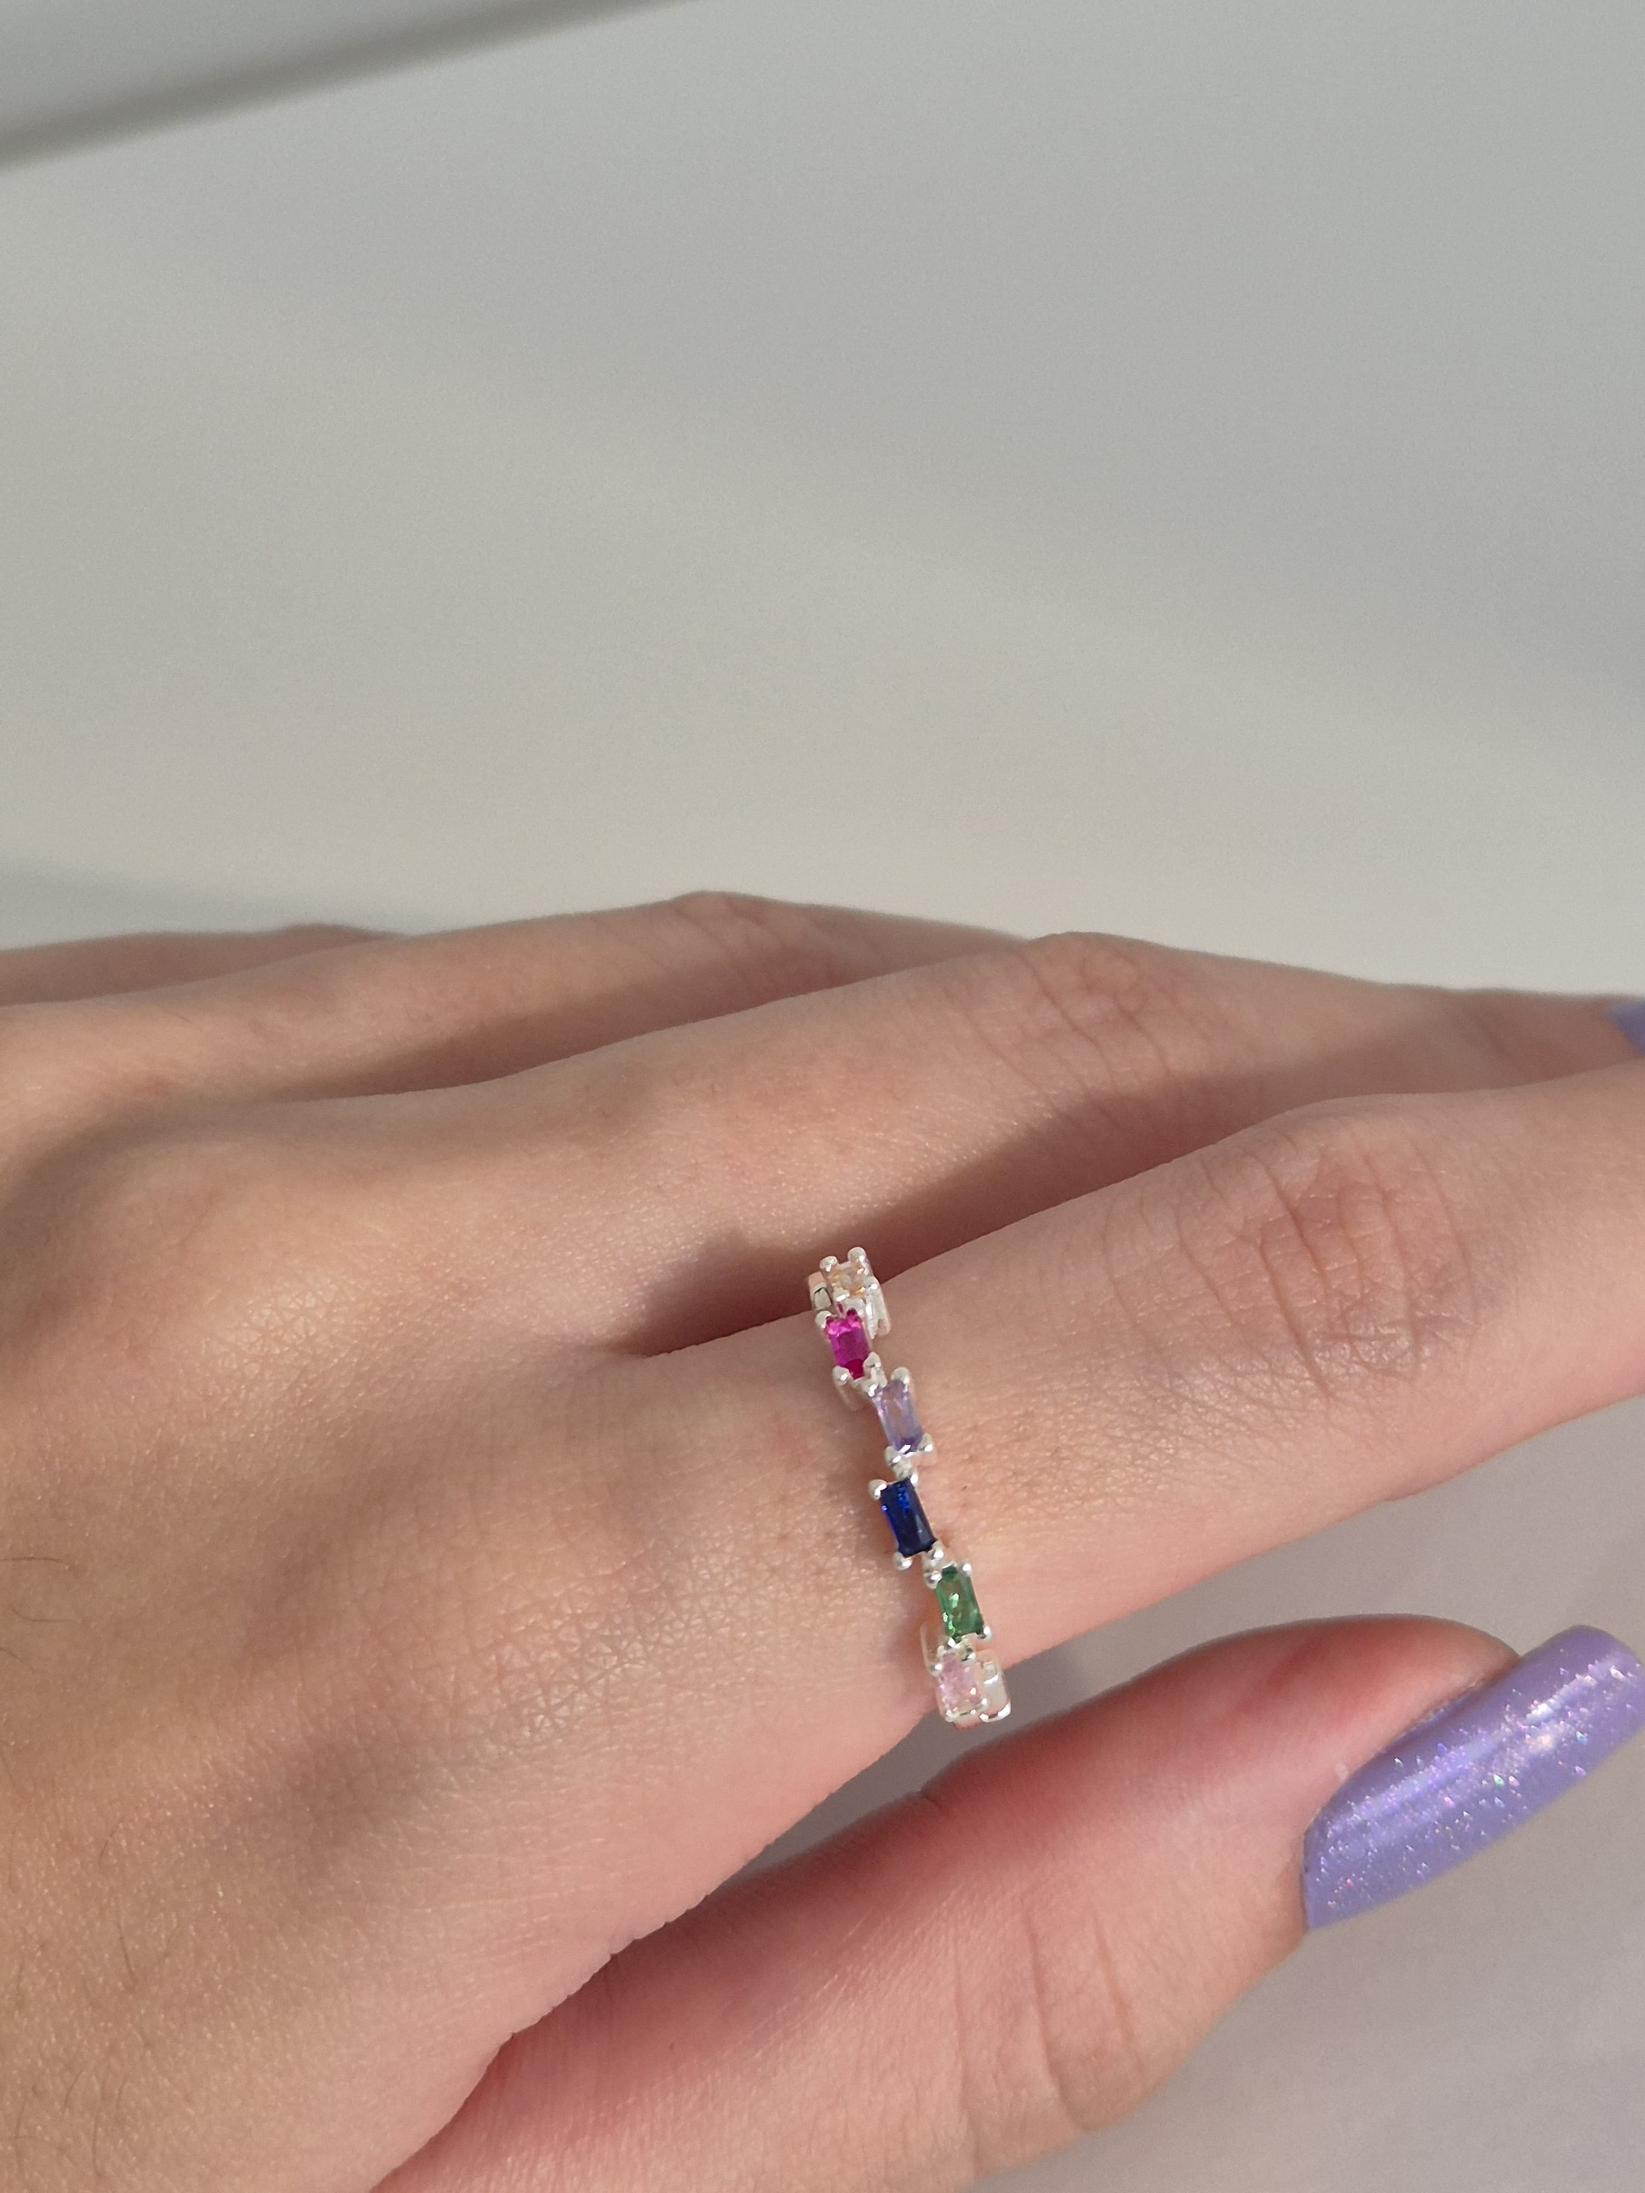
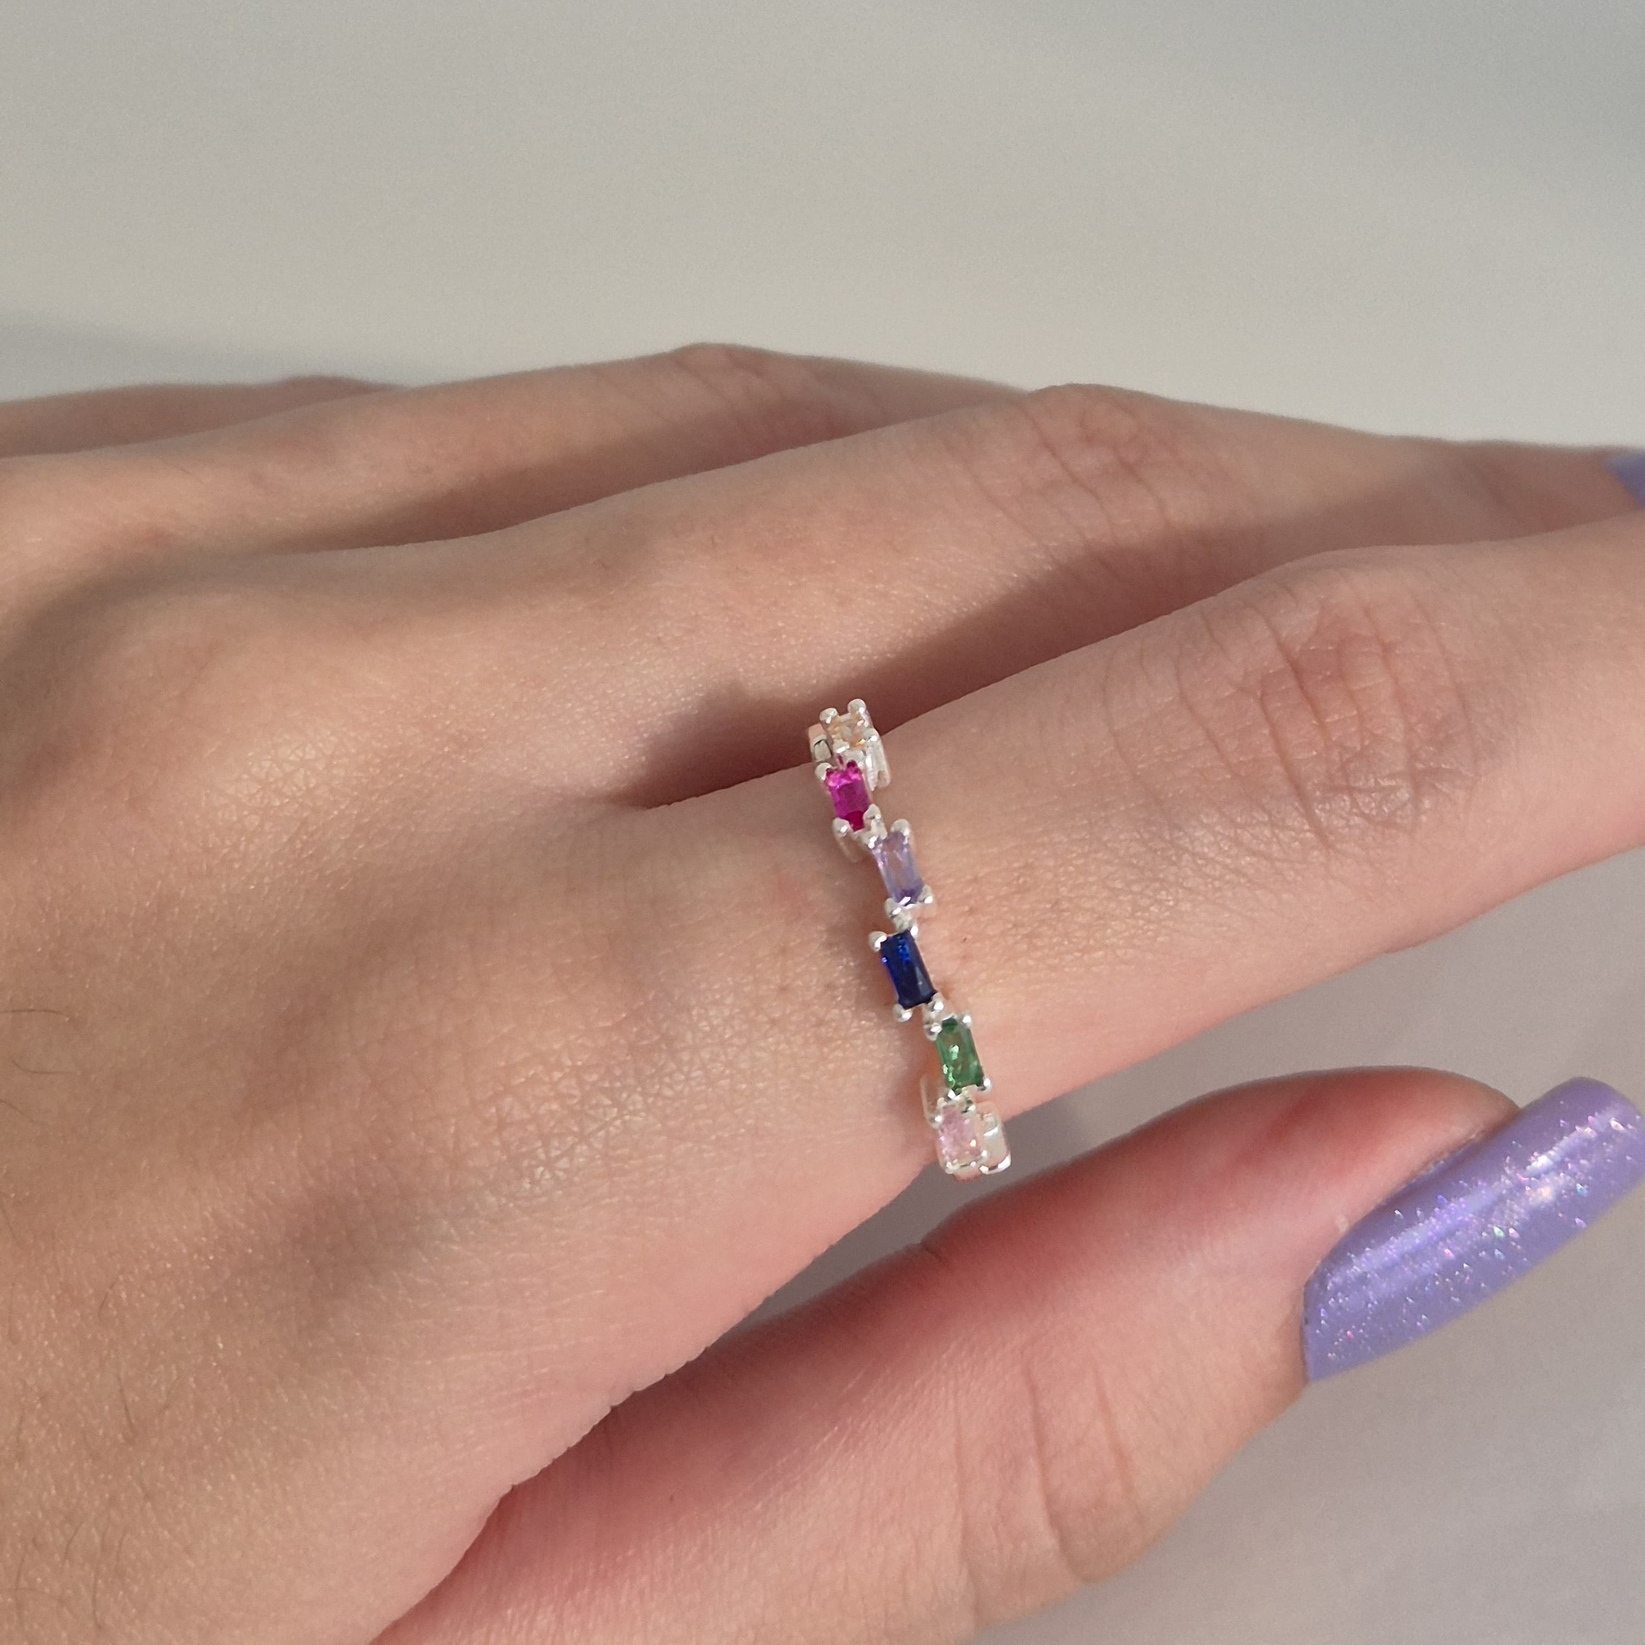
Corrigindo tamanho e disposição das imagens para o formato 1:1

diff --git a/script.js b/script.js
@@ -43,20 +43,9 @@ const productList = [
         category: "anel",
         gender: "feminino",
         description: "Anel Regulável, em formato de sol e lua."
-    },
-    {
-        id: 4,
-        name: "Brincos de Pérola",
-        price: 250.00,
-        stock: 22,
-        images: [
-            "https://images.unsplash.com/photo-1535632066927-ab7c9ab60908?w=500&auto=format&fit=crop&q=60"
-        ],
-        category: "brinco",
-        gender: "feminino",
-        description: "Par de brincos clássicos com pérolas de água doce e fecho de ouro branco."
     }
-    // Adicione mais produtos aqui...
+    
+    // Adicionar mais produtos aqui...
 ];
 
 /**

diff --git a/style.css b/style.css
@@ -406,7 +406,8 @@ footer {
 .carousel-container {
     position: relative;
     width: 100%;
-    height: 400px;
+    aspect-ratio: 1 / 1;
+    align-self: center;
     background-color: transparent;
     display: flex;
     align-items: center;
